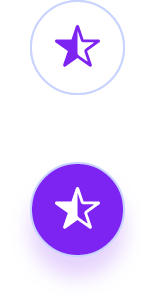
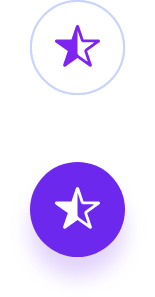
ajustes de hover

diff --git a/css/styles.css b/css/styles.css
@@ -665,6 +665,7 @@ textarea.textareafield {
   white-space: pre-line;
   padding-left: 135px;
   color: #cad2ff;
+
 }
 
 .carousel-icones {
@@ -729,11 +730,11 @@ textarea.textareafield {
 .desfrute li:nth-child(2).active,
 .desfrute li:nth-child(3):hover,
 .desfrute li:nth-child(3).active {
-  background-position: 0 -160px;
-  animation: fadein 0.3s;
-  -moz-animation: fadein 0.3s; /* Firefox */
-  -webkit-animation: fadein 0.3s; /* Safari and Chrome */
-  -o-animation: fadein 0.3s;
+  background-position: 0 -162px;
+  animation: fadein 0.6s;
+  -moz-animation: fadein 0.6s; /* Firefox */
+  -webkit-animation: fadein 0.6s; /* Safari and Chrome */
+  -o-animation: fadein 0.6s;
   color: #6c29ed;
 }
 
@@ -965,12 +966,28 @@ ul {
   }
 }
 
-@keyframes fadein {
-  /* Safari and Chrome */
-  from {
-    opacity: 0;
+
+@-o-keyframes fadein{
+    from {
+        opacity: 0;
+      }
+      to {
+        opacity: 1;
+      }
   }
-  to {
-    opacity: 1;
+  @-moz-keyframes fadein{
+    from {
+        opacity: 0;
+      }
+      to {
+        opacity: 1;
+      }
   }
-}
+  @-webkit-keyframes fadein{
+    from {
+        opacity: 0;
+      }
+      to {
+        opacity: 1;
+      }
+    }
